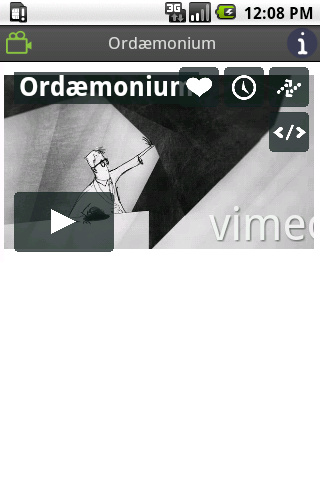
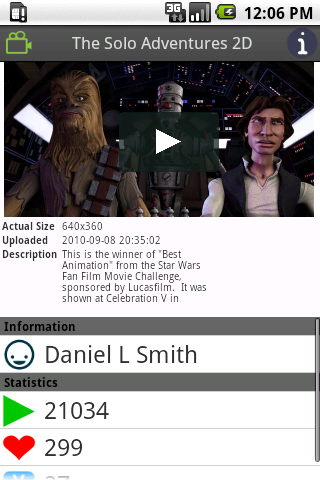
filled up video screen with some data

diff --git a/apk/gen/org/vimeoid/R.java b/apk/gen/org/vimeoid/R.java
@@ -32,22 +32,23 @@ public final class R {
     public static final class dimen {
         public static final int action_icon_side=0x7f050004;
         public static final int action_item_height=0x7f050003;
-        public static final int actions_group_title_font_size=0x7f05000e;
+        public static final int actions_group_title_font_size=0x7f05000f;
         public static final int actions_group_title_height=0x7f050002;
-        public static final int item_action_font_size=0x7f050011;
-        public static final int item_info_font_size=0x7f050013;
-        public static final int item_param_font_size=0x7f050012;
-        public static final int item_subtitle_font_size=0x7f050010;
-        public static final int item_tags_font_size=0x7f050014;
+        public static final int description_line_height=0x7f05000a;
+        public static final int item_action_font_size=0x7f050012;
+        public static final int item_info_font_size=0x7f050014;
+        public static final int item_param_font_size=0x7f050013;
+        public static final int item_subtitle_font_size=0x7f050011;
+        public static final int item_tags_font_size=0x7f050015;
         public static final int item_thumb_height=0x7f050006;
         public static final int item_thumb_width=0x7f050005;
-        public static final int item_title_font_size=0x7f05000f;
-        public static final int load_more_height=0x7f05000c;
+        public static final int item_title_font_size=0x7f050010;
+        public static final int load_more_height=0x7f05000d;
         public static final int single_thumb_height=0x7f050008;
         public static final int single_thumb_width=0x7f050007;
-        public static final int small_progress_side=0x7f05000a;
-        public static final int small_progressbar_height=0x7f05000b;
-        public static final int tags_line_height=0x7f05000d;
+        public static final int small_progress_side=0x7f05000b;
+        public static final int small_progressbar_height=0x7f05000c;
+        public static final int tags_line_height=0x7f05000e;
         public static final int titlebar_height=0x7f050000;
         public static final int titlebar_icons_side=0x7f050001;
         public static final int video_player_height=0x7f050009;
@@ -112,25 +113,28 @@ public final class R {
         public static final int actionIcon=0x7f080003;
         public static final int actionName=0x7f080004;
         public static final int actionsGroupTitle=0x7f080000;
-        public static final int actionsList=0x7f080014;
-        public static final int enterButton=0x7f080015;
-        public static final int guestButton=0x7f080016;
+        public static final int actionsList=0x7f080018;
+        public static final int enterButton=0x7f080019;
+        public static final int guestButton=0x7f08001a;
         public static final int itemsEmptyListView=0x7f080007;
         public static final int itemsListFooterText=0x7f080006;
-        public static final int menuGroup_Main=0x7f080017;
-        public static final int menuGroup_VideoContext=0x7f08001b;
-        public static final int menu_Preferences=0x7f080019;
-        public static final int menu_Refresh=0x7f080018;
-        public static final int menu_SwitchView=0x7f08001a;
-        public static final int menu_viewAuthorInfo=0x7f08001d;
-        public static final int menu_viewInfo=0x7f08001c;
-        public static final int menu_watchLater=0x7f08001e;
+        public static final int menuGroup_Main=0x7f08001b;
+        public static final int menuGroup_VideoContext=0x7f08001f;
+        public static final int menu_Preferences=0x7f08001d;
+        public static final int menu_Refresh=0x7f08001c;
+        public static final int menu_SwitchView=0x7f08001e;
+        public static final int menu_viewAuthorInfo=0x7f080021;
+        public static final int menu_viewInfo=0x7f080020;
+        public static final int menu_watchLater=0x7f080022;
         public static final int progressBar=0x7f080002;
         public static final int resultIcon=0x7f08000a;
         public static final int subjectIcon=0x7f080008;
         public static final int subjectTitle=0x7f080009;
         public static final int tagItem=0x7f080012;
         public static final int titleBar=0x7f080001;
+        public static final int uploaderPortrait=0x7f080017;
+        public static final int videoDescription=0x7f080016;
+        public static final int videoDimensions=0x7f080014;
         public static final int videoItemAuthor=0x7f08000c;
         public static final int videoItemDuration=0x7f080011;
         public static final int videoItemImage=0x7f080005;
@@ -140,6 +144,7 @@ public final class R {
         public static final int videoItemTags=0x7f08000d;
         public static final int videoItemTitle=0x7f08000b;
         public static final int videoPlayer=0x7f080013;
+        public static final int videoUploadedOn=0x7f080015;
     }
     public static final class layout {
         public static final int actions_section_title=0x7f030000;
@@ -162,10 +167,5 @@ public final class R {
     }
     public static final class string {
         public static final int app_name=0x7f060000;
-        public static final int information=0x7f060001;
-        public static final int statistics=0x7f060002;
-        public static final int videoActualSize=0x7f060004;
-        public static final int videoDescription=0x7f060003;
-        public static final int videoUploader=0x7f060005;
     }
 }

diff --git a/apk/src/org/vimeoid/activity/guest/item/VideoActivity.java b/apk/src/org/vimeoid/activity/guest/item/VideoActivity.java
@@ -94,21 +94,31 @@ public class VideoActivity extends Activity {
     	Log.d(TAG, "video " + video.id + " data received, uploader: " + video.uploaderName);
     	((TextView)titleBar.findViewById(R.id.subjectTitle)).setText(video.title);
     	
+    	((TextView)findViewById(R.id.videoDescription)).setText(video.description);
+    	// FIXME: add this info to adapter
+    	((TextView)findViewById(R.id.videoUploadedOn)).setText(video.uploadedOn);
+    	((TextView)findViewById(R.id.videoDimensions)).setText(video.width + "x" + video.height);
+    	// TODO: + tags
+    	
+    	// TODO: uploader avatar
+    	
     	final SectionedActionsAdapter actionsAdapter = new SectionedActionsAdapter(this, getLayoutInflater(), null);
     	
-    	int infoSection = actionsAdapter.addSection(R.string.information);
-    	actionsAdapter.addAction(infoSection, /*video.smallUploaderPortraitUrl*/R.drawable.contact, 
-    	                         Utils.format(getString(R.string.videoUploader), "name", video.uploaderName));
-    	actionsAdapter.addAction(infoSection, R.drawable.contact, R.string.information);
+    	int infoSection = actionsAdapter.addSection("Information");
+    	/* actionsAdapter.addAction(infoSection, video.smallUploaderPortraitUrl, 
+    	                            Utils.format(getString(R.string.videoUploader), "name", video.uploaderName)); */
+    	actionsAdapter.addAction(infoSection, R.drawable.contact, video.uploaderName);
     	
-    	int statsSection = actionsAdapter.addSection(R.string.statistics);
-    	actionsAdapter.addAction(statsSection, R.drawable.like, R.string.statistics);
-    	actionsAdapter.addAction(statsSection, R.drawable.like, R.string.statistics);
+    	int statsSection = actionsAdapter.addSection("Statistics");
+    	actionsAdapter.addAction(statsSection, R.drawable.play, String.valueOf(video.playsCount));
+    	actionsAdapter.addAction(statsSection, R.drawable.like, String.valueOf(video.likesCount));
+    	actionsAdapter.addAction(statsSection, R.drawable.comment_video, String.valueOf(video.commentsCount));
     	
     	final ListView actionsList = (ListView)findViewById(R.id.actionsList);
     	actionsList.setAdapter(actionsAdapter);
         actionsList.setSelection(0);
     	actionsList.invalidate();
+    	actionsList.scrollTo(0, 0);
     }
     
     protected class LoadItemTask extends AsyncTask<Uri, Void, Cursor> {

diff --git a/apk/src/org/vimeoid/connection/simple/VimeoProvider.java b/apk/src/org/vimeoid/connection/simple/VimeoProvider.java
@@ -8,7 +8,6 @@ import java.util.List;
 import org.apache.http.client.ClientProtocolException;
 import org.json.JSONArray;
 import org.json.JSONException;
-import org.json.JSONObject;
 
 import org.vimeoid.VimeoConfig;
 import org.vimeoid.connection.ApiCallInfo;
@@ -107,7 +106,7 @@ public class VimeoProvider extends ContentProvider {
     
     @Override
     public Cursor query(Uri contentUri, String[] projection, String selection,
-            String[] selectionArgs, String sortOrder) {
+                        String[] selectionArgs, String sortOrder) {
         if ((selection != null) || (selectionArgs != null))
             throw new UnsupportedOperationException("SQL Where-selections are not supported in VimeoProvider, please use URI to filter the selection query");
         if (sortOrder != null) throw new UnsupportedOperationException("SQL-styled sorting is not supported in VimeoProvider, please use URI parameters to specify sorting order (if supported by the method)");
@@ -130,6 +129,7 @@ public class VimeoProvider extends ContentProvider {
             jsone.printStackTrace();
         } catch (IOException ioe) {
             Log.e(TAG, "Connection/IO exception " + ioe.getLocalizedMessage());
+            // TDODO: catch UnknownHostException and fire it as VimeoUnreachable
             ioe.printStackTrace();
         }
         return null;
